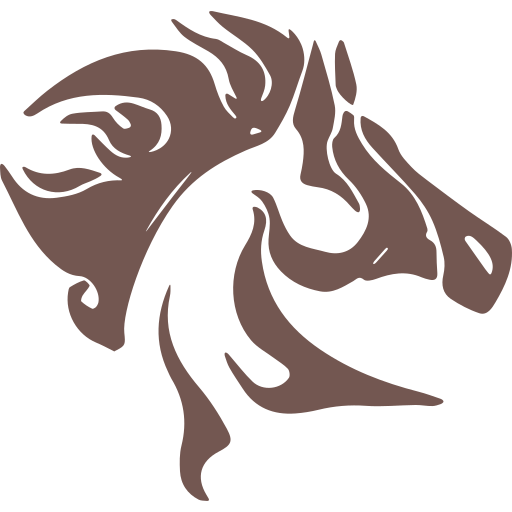
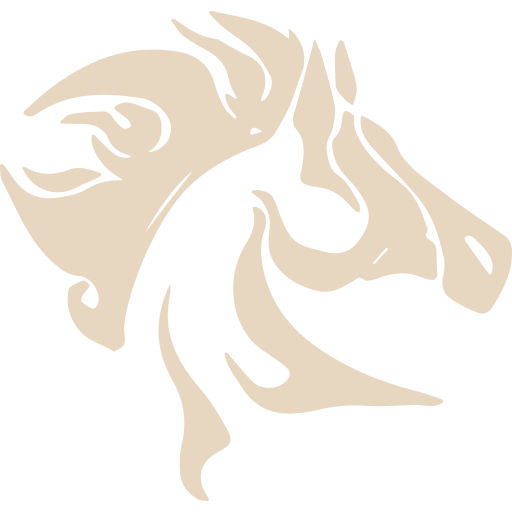
change heather colors

diff --git a/save-horses/src/App.css b/save-horses/src/App.css
@@ -55,7 +55,7 @@ html {
 }
 
 .header {
-  background-color: white;
+  background-color: var(--liver);
   font-weight: 600;
   font-family: "Playfair Display", serif;
   font-size: 40px;
@@ -65,6 +65,15 @@ html {
   position: sticky;
   z-index: 1;
 }
+
+.header span{
+  color: var(--almond);
+}
+
+.header img{
+  padding: 3px;
+}
+
 .imagename {
   display: flex;
   margin-right: 30px;
